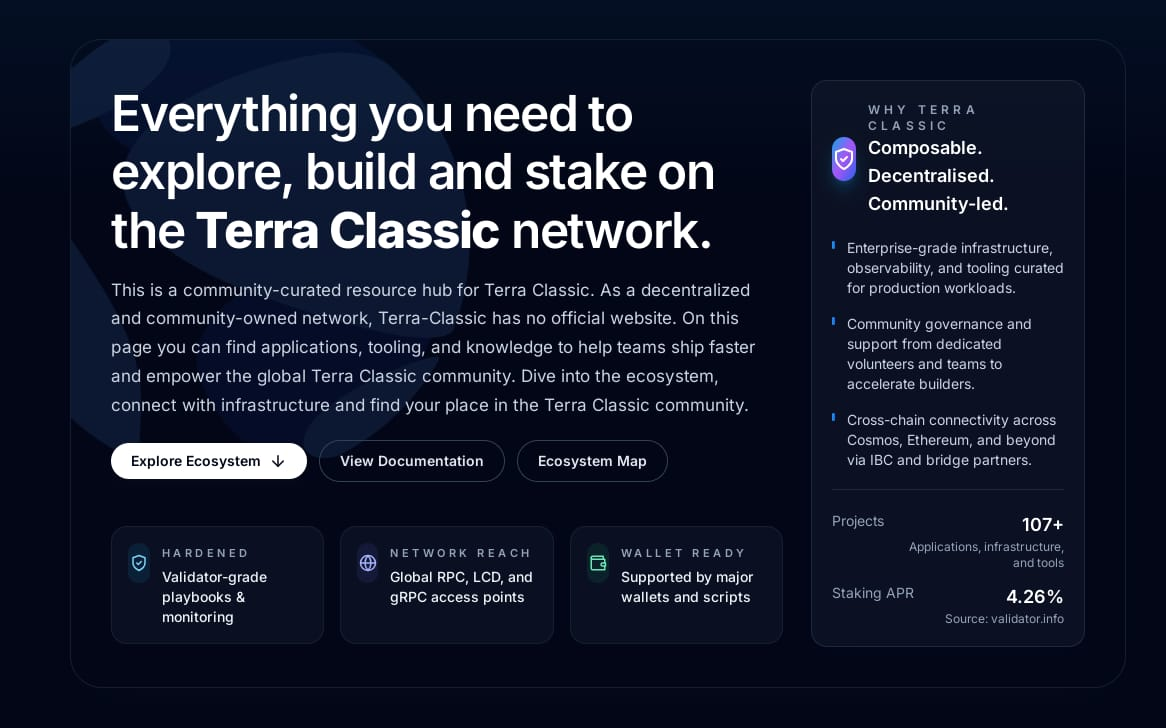
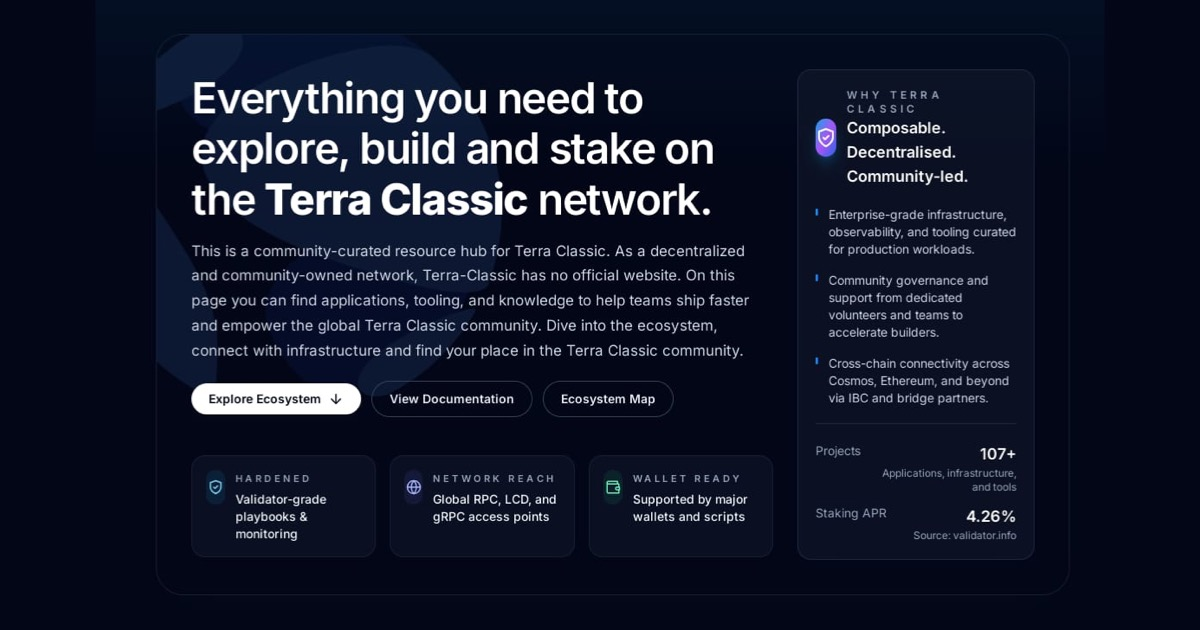
fix(seo): optimize social metadata and 404 caching
- Resize the OG image to 1200×630
- Add consistent image type, dimensions, and alt metadata across the homepage, project map, and documentation
- Add accessible Twitter image metadata
- Apply private five-minute caching to 404 responses
- Keep standard public caching unchanged for valid pages
- Support identical 404 behavior on Cloudflare Pages and Node.js

Validated with TypeScript, ESLint, Node.js and Cloudflare Pages builds, plus HTTP 200/404 header checks.

diff --git a/src/App.tsx b/src/App.tsx
@@ -26,7 +26,11 @@ import { buildDocPath } from "./utils/seo-routes";
 import {
   HOME_DESCRIPTION,
   HOME_TITLE,
+  OG_IMAGE_ALT,
+  OG_IMAGE_HEIGHT,
+  OG_IMAGE_TYPE,
   OG_IMAGE_URL,
+  OG_IMAGE_WIDTH,
   PROJECT_MAP_DESCRIPTION,
   PROJECT_MAP_TITLE,
   SITE_LOCALE,
@@ -589,13 +593,15 @@ const App: React.FC<{
             <meta property="og:description" content={HOME_DESCRIPTION} />
             <meta property="og:url" content={`${SITE_ORIGIN}/`} />
             <meta property="og:image" content={OG_IMAGE_URL} />
-            <meta property="og:image:width" content="1166" />
-            <meta property="og:image:height" content="728" />
-            <meta property="og:image:alt" content="Terra Classic ecosystem" />
+            <meta property="og:image:type" content={OG_IMAGE_TYPE} />
+            <meta property="og:image:width" content={OG_IMAGE_WIDTH} />
+            <meta property="og:image:height" content={OG_IMAGE_HEIGHT} />
+            <meta property="og:image:alt" content={OG_IMAGE_ALT} />
             <meta name="twitter:card" content="summary_large_image" />
             <meta name="twitter:title" content={HOME_TITLE} />
             <meta name="twitter:description" content={HOME_DESCRIPTION} />
             <meta name="twitter:image" content={OG_IMAGE_URL} />
+            <meta name="twitter:image:alt" content={OG_IMAGE_ALT} />
             <script type="application/ld+json">
               {JSON.stringify(homeStructuredData)}
             </script>
@@ -618,10 +624,15 @@ const App: React.FC<{
             <meta property="og:description" content={PROJECT_MAP_DESCRIPTION} />
             <meta property="og:url" content={`${SITE_ORIGIN}/bubbles`} />
             <meta property="og:image" content={OG_IMAGE_URL} />
+            <meta property="og:image:type" content={OG_IMAGE_TYPE} />
+            <meta property="og:image:width" content={OG_IMAGE_WIDTH} />
+            <meta property="og:image:height" content={OG_IMAGE_HEIGHT} />
+            <meta property="og:image:alt" content={OG_IMAGE_ALT} />
             <meta name="twitter:card" content="summary_large_image" />
             <meta name="twitter:title" content={PROJECT_MAP_TITLE} />
             <meta name="twitter:description" content={PROJECT_MAP_DESCRIPTION} />
             <meta name="twitter:image" content={OG_IMAGE_URL} />
+            <meta name="twitter:image:alt" content={OG_IMAGE_ALT} />
             <meta
               name="theme-color"
               content={resolvedTheme === "dark" ? "#020617" : "#e2e8f0"}

diff --git a/server.js b/server.js
@@ -9,6 +9,7 @@ const __dirname = path.dirname(fileURLToPath(import.meta.url));
 const isProduction = process.env.NODE_ENV === 'production';
 const PORT = process.env.PORT || 3000;
 const HTML_CACHE_CONTROL = 'public, max-age=0, s-maxage=3600, stale-while-revalidate=86400';
+const NOT_FOUND_CACHE_CONTROL = 'private, max-age=300';
 
 // Create a simple logger
 const logger = {
@@ -103,7 +104,14 @@ async function createServer() {
 
       if (requestUrl.pathname.includes('.')) {
         logger.warn(`Static asset not found: ${url}`);
-        return res.status(404).send('Not Found');
+        return res
+          .status(404)
+          .set({
+            'Cache-Control': NOT_FOUND_CACHE_CONTROL,
+            'X-Robots-Tag': 'noindex, follow',
+            'X-Content-Type-Options': 'nosniff',
+          })
+          .send('Not Found');
       }
 
       const templatePath = path.resolve(
@@ -133,7 +141,7 @@ async function createServer() {
         .status(statusCode)
         .set({
           'Content-Type': 'text/html; charset=utf-8',
-          'Cache-Control': HTML_CACHE_CONTROL,
+          'Cache-Control': statusCode === 404 ? NOT_FOUND_CACHE_CONTROL : HTML_CACHE_CONTROL,
           'X-Robots-Tag': statusCode === 404 ? 'noindex, follow' : 'index, follow',
           'X-Content-Type-Options': 'nosniff',
           'Referrer-Policy': 'strict-origin-when-cross-origin',
@@ -167,7 +175,14 @@ async function createServer() {
   // Fallback 404 handler for requests not captured above
   app.use((req, res, next) => {
     if (!res.headersSent) {
-      res.status(404).send('Not Found');
+      res
+        .status(404)
+        .set({
+          'Cache-Control': NOT_FOUND_CACHE_CONTROL,
+          'X-Robots-Tag': 'noindex, follow',
+          'X-Content-Type-Options': 'nosniff',
+        })
+        .send('Not Found');
     }
   });
 

diff --git a/src/components/docs/docs-shell.tsx b/src/components/docs/docs-shell.tsx
@@ -14,7 +14,11 @@ import { LAST_UPDATE } from "../../generated/build-info";
 import { buildDocPath } from "../../utils/seo-routes";
 import {
   LOGO_URL,
+  OG_IMAGE_ALT,
+  OG_IMAGE_HEIGHT,
+  OG_IMAGE_TYPE,
   OG_IMAGE_URL,
+  OG_IMAGE_WIDTH,
   SITE_LOCALE,
   SITE_NAME,
   SITE_ORIGIN,
@@ -283,11 +287,16 @@ function DocsShell({ docSegments, onNavigate, isDocsSubdomain }: DocsShellProps)
         <meta property="og:site_name" content={SITE_NAME} />
         <meta property="og:url" content={pageUrl} />
         <meta property="og:image" content={OG_IMAGE_URL} />
+        <meta property="og:image:type" content={OG_IMAGE_TYPE} />
+        <meta property="og:image:width" content={OG_IMAGE_WIDTH} />
+        <meta property="og:image:height" content={OG_IMAGE_HEIGHT} />
+        <meta property="og:image:alt" content={OG_IMAGE_ALT} />
         <meta property="article:modified_time" content={LAST_UPDATE} />
         <meta name="twitter:card" content="summary_large_image" />
         <meta name="twitter:title" content={pageTitle} />
         <meta name="twitter:description" content={pageDescription} />
         <meta name="twitter:image" content={OG_IMAGE_URL} />
+        <meta name="twitter:image:alt" content={OG_IMAGE_ALT} />
         <link rel="canonical" href={pageUrl} />
         <script type="application/ld+json">{JSON.stringify(structuredData)}</script>
         <meta name="theme-color" content="#e2e8f0" />

diff --git a/src/entry-worker.ts b/src/entry-worker.ts
@@ -14,6 +14,7 @@ import {
 // On Pages client build (CF_PAGES_BUILD), we emit to dist/ root.
 const TEMPLATE_PATH = "/index.html";
 const HTML_CACHE_CONTROL = "public, max-age=0, s-maxage=3600, stale-while-revalidate=86400";
+const NOT_FOUND_CACHE_CONTROL = "private, max-age=300";
 
 /**
  * Read the base HTML template from Cloudflare Pages static assets.
@@ -110,7 +111,7 @@ const handleRequest = async (
     status: statusCode,
     headers: {
       "Content-Type": "text/html; charset=utf-8",
-      "Cache-Control": HTML_CACHE_CONTROL,
+      "Cache-Control": statusCode === 404 ? NOT_FOUND_CACHE_CONTROL : HTML_CACHE_CONTROL,
       "X-Robots-Tag": statusCode === 404 ? "noindex, follow" : "index, follow",
       "X-Content-Type-Options": "nosniff",
       "Referrer-Policy": "strict-origin-when-cross-origin",

diff --git a/src/utils/seo.ts b/src/utils/seo.ts
@@ -3,6 +3,10 @@ export const SITE_NAME = "Terra Classic";
 export const SITE_ALTERNATE_NAME = "Terra Classic Ecosystem";
 export const SITE_LOCALE = "en_US";
 export const OG_IMAGE_URL = `${SITE_ORIGIN}/og-image.jpg`;
+export const OG_IMAGE_TYPE = "image/jpeg";
+export const OG_IMAGE_WIDTH = "1200";
+export const OG_IMAGE_HEIGHT = "630";
+export const OG_IMAGE_ALT = "Terra Classic — Explore. Build. Stake.";
 export const LOGO_URL = `${SITE_ORIGIN}/favicon-512.png`;
 
 export const HOME_TITLE =
